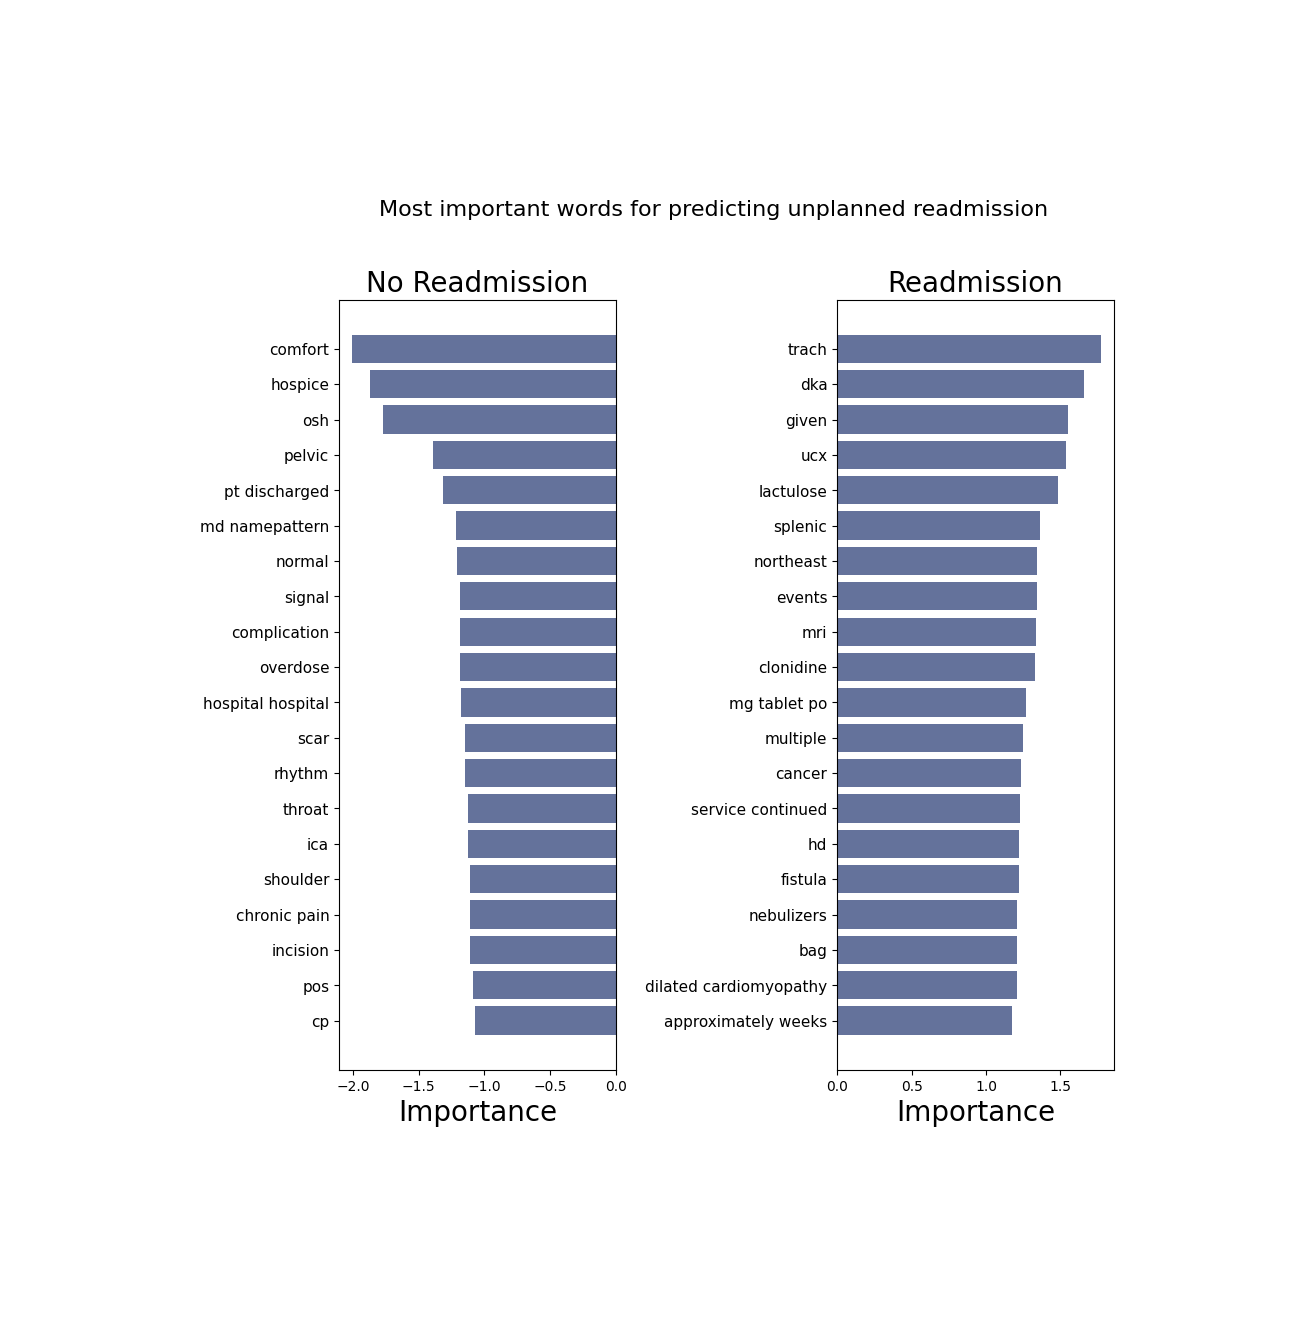
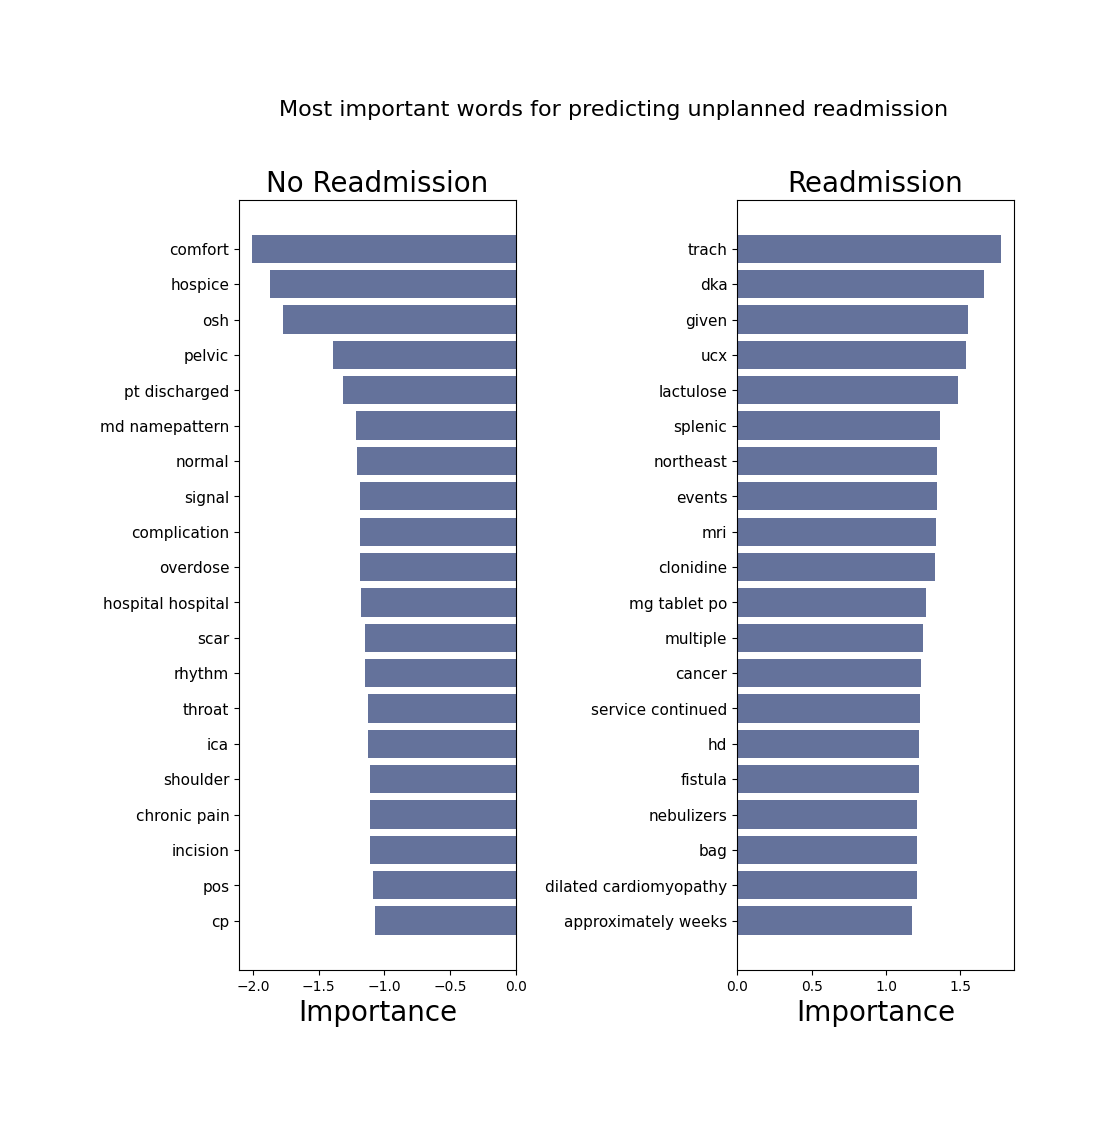
Rerun script, small script changes, new border for feature viz

Changed region(s): [[0.0916, 0.1553, 0.9164, 0.9317], [0.2444, 0.0932, 0.8553, 0.1242], [0.2444, 0.6211, 0.2749, 0.6522]]

diff --git a/A5-Supervised-Learning/src/data_preprocessing.py b/A5-Supervised-Learning/src/data_preprocessing.py
@@ -83,16 +83,6 @@ class NotePreprocessing:
             
             admissions = pd.read_csv(self.data_dir / admissions_file, engine='python', encoding='utf-8', error_bad_lines=False)
 
-        # Subset data
-        # admissions_subset = admissions.loc[1:1000,]
-
-        # notes_subset = notes.loc[notes['HADM_ID'].isin(admissions_subset['HADM_ID'])]
-
-        # # Save data
-        # admissions_subset.to_csv(self.data_dir / "ADMISSIONS_subset.csv")
-
-        # notes_subset.to_csv(self.data_dir / "NOTES_subset.csv")
-
         # Pre-processing admissions data using preproccessing function
         preprocessed_admissions = self.preprocess_admissions(admissions)
 
@@ -377,11 +367,11 @@ if __name__ == '__main__':
                         "[DESCRIPTION] The path for the file containing clinical notes. \n"
                         "[TYPE]        str \n"
                         "[DEFAULT]     NOTEEVENTS.csv \n"
-                        "[EXAMPLE]     -ne NOTEEVENTS.csv \n",
+                        "[EXAMPLE]     -ne NOTEEVENTS.csv",
                         required=False)
 
     parser.add_argument('-af', 
-                        metavar="--admissions_file",
+                        metavar="--admission_file",
                         type=str,
                         help=
                         "[DESCRIPTION] The path for the file containing general admissions data \n"

diff --git a/A5-Supervised-Learning/src/readmission_prediction.py b/A5-Supervised-Learning/src/readmission_prediction.py
@@ -286,13 +286,14 @@ class ReadmissionPrediction:
         plt.subplots_adjust(wspace=0.8)
 
         # Save figure
-        plt.savefig(Path.cwd() / 'viz' / 'most_important.png', bbox_inches='tight', pad_inches=2) 
+        plt.savefig(Path.cwd() / 'viz' / 'most_important.png', bbox_inches='tight', pad_inches=1) 
 
 
 # Executing main function when script is run
 if __name__ == '__main__':
 
-    parser = argparse.ArgumentParser()
+    parser = argparse.ArgumentParser(description = "[INFO] Readmission Prediction",
+                                formatter_class = argparse.RawTextHelpFormatter)
 
     parser.add_argument('-tr', 
                         metavar="--train_data",
